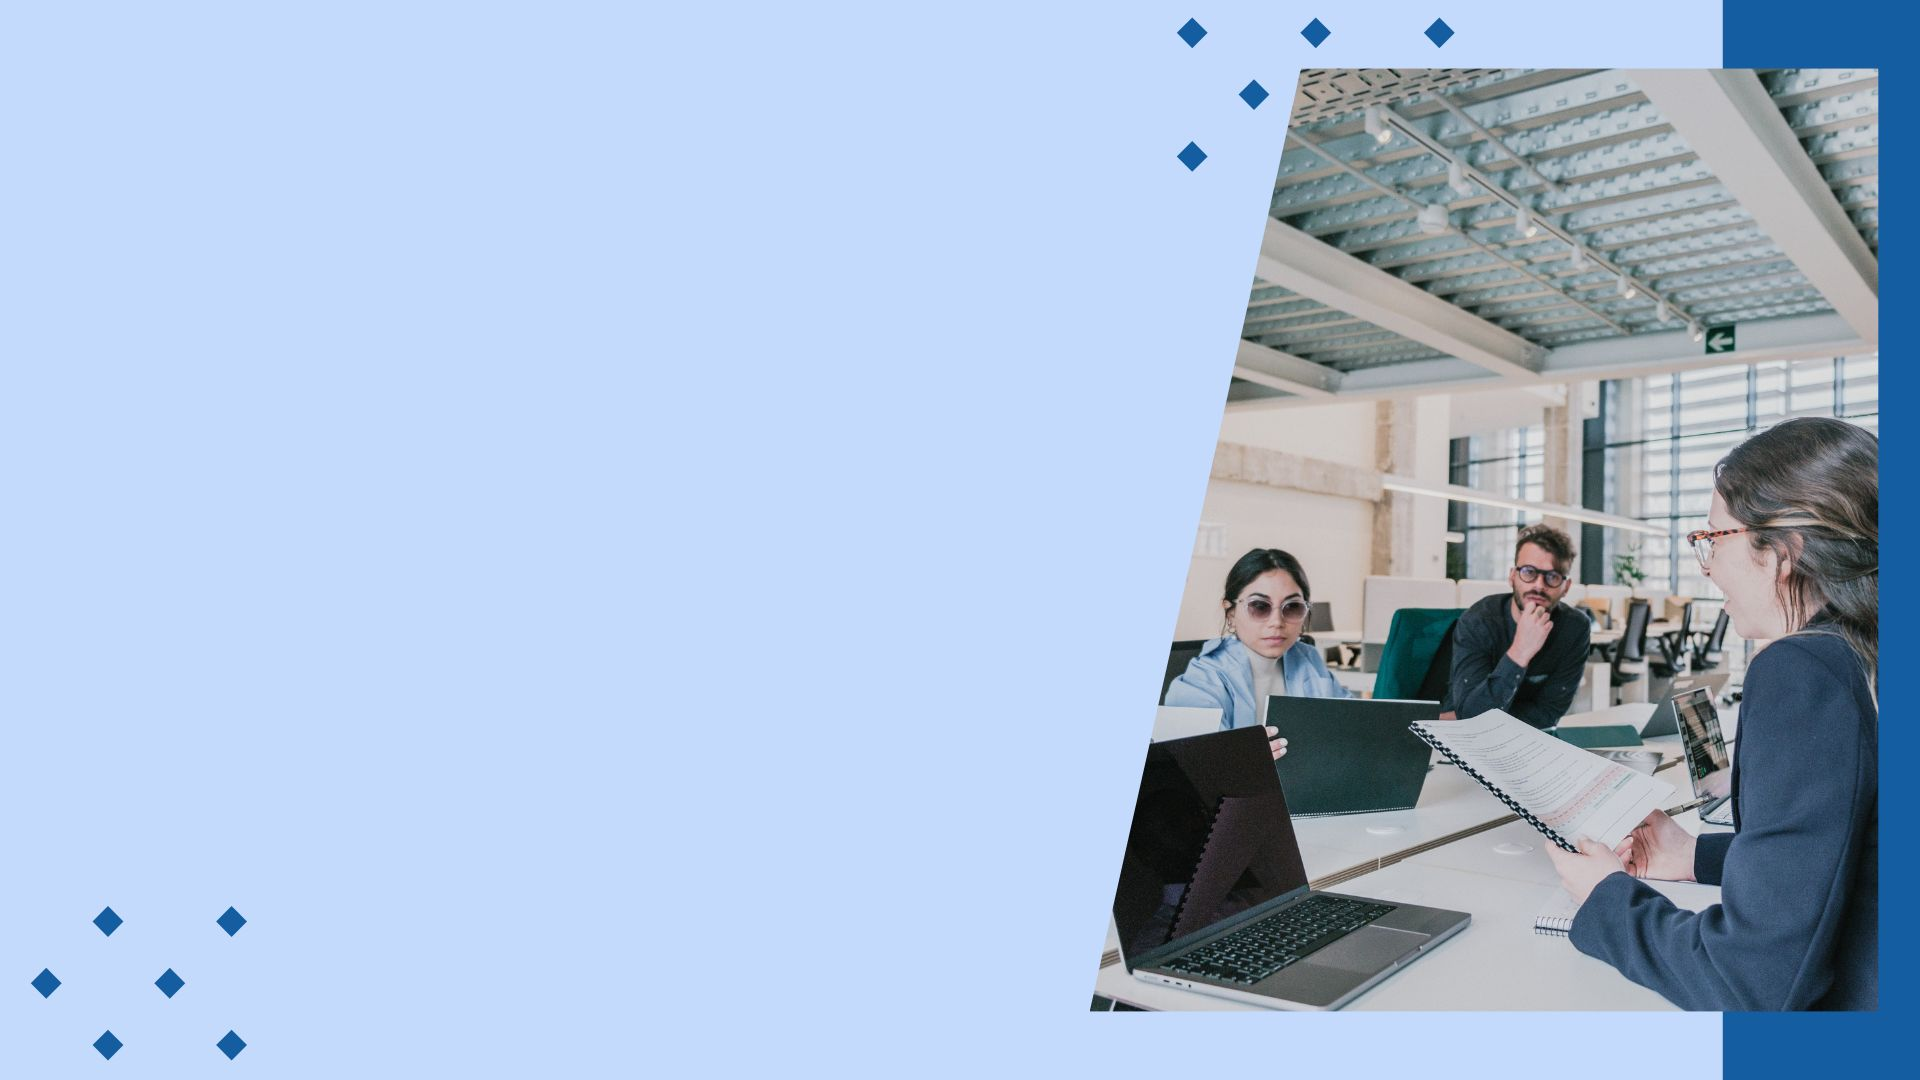
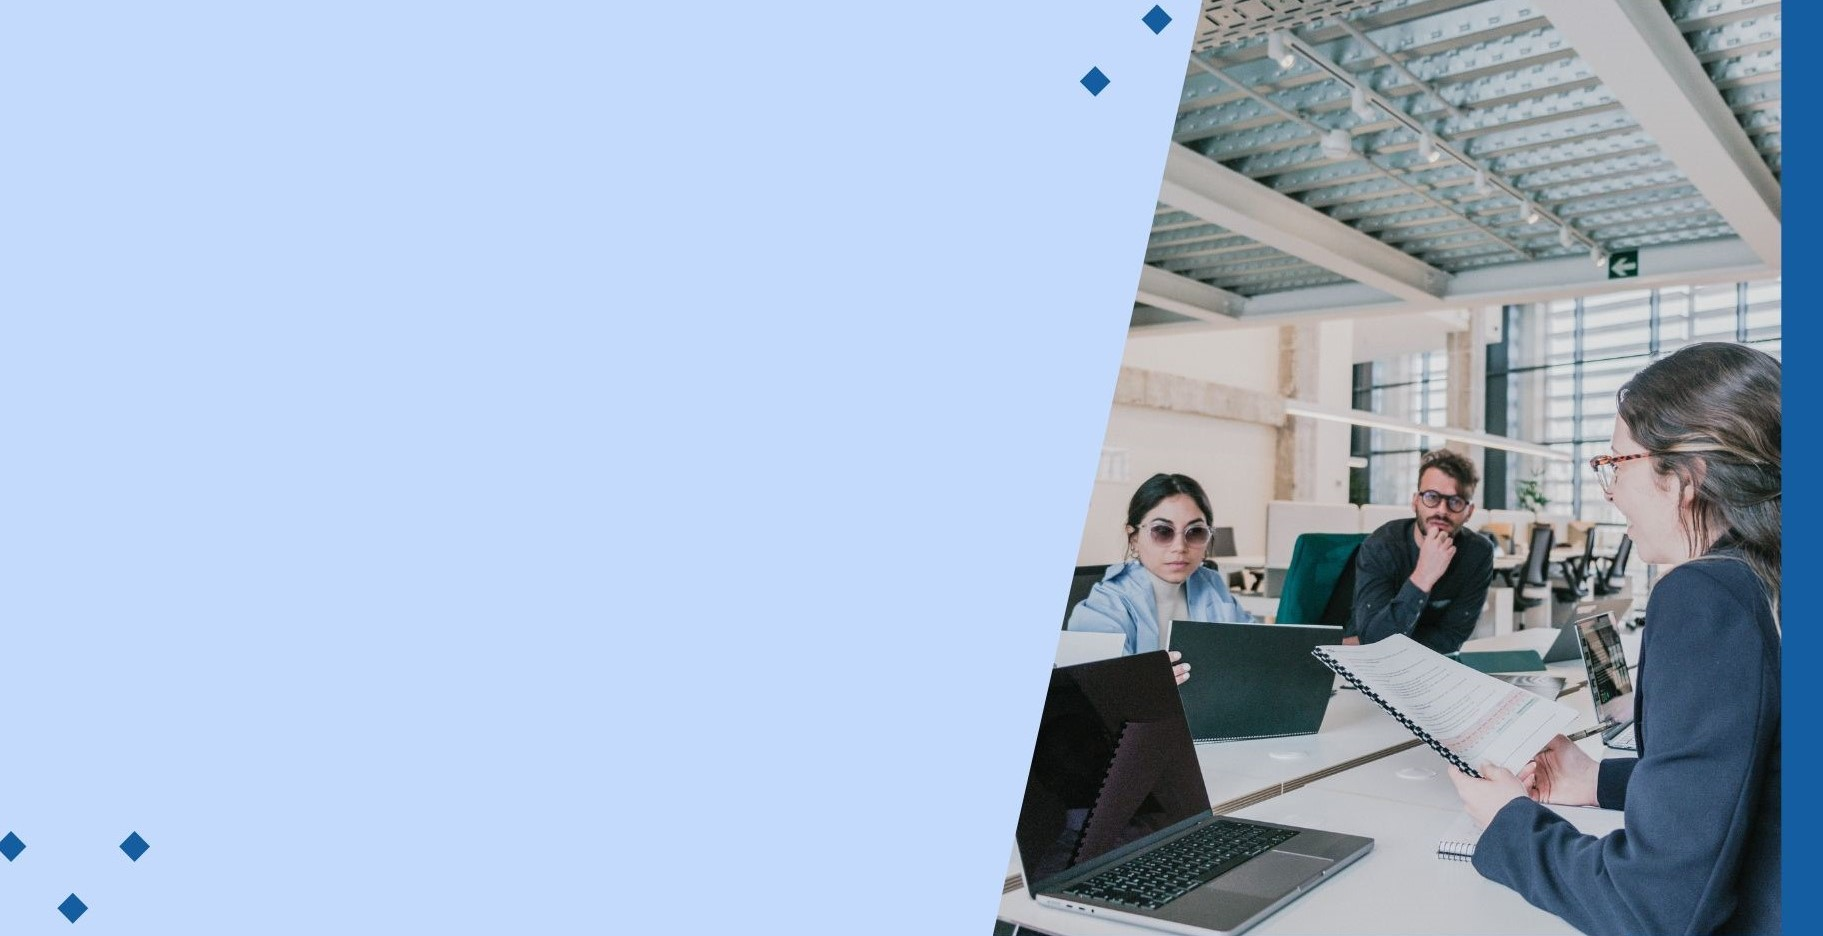
Initial version of pfe generated by generator-jhipster@8.1.0

diff --git a/src/main/webapp/app/page/page.component.html b/src/main/webapp/app/page/page.component.html
@@ -15,6 +15,7 @@
       font-size: 10px;
       font-family: 'Montserrat', sans-serif;
       scroll-behavior: smooth;
+
     }
     a {
       text-decoration: none;
@@ -25,6 +26,7 @@
       display: flex;
       align-items: center;
       justify-content: center;
+      flex-grow: 1;
     }
 
     img {
@@ -75,20 +77,27 @@
       color: white;
     }
     .brand h1 span {
-      color: #145adc;
+    color: #145adc;
     }
     #hero {
-      background-image: url('/content/images/Blue Dark Professional Geometric Business Project Presentation .jpg');
+      background: url('/content/images/Blue and Green Modern Professional Company Profile Presentation (1).jpg') center top no-repeat;
       background-size: cover;
-      background-position: center top;
       position: relative;
       z-index: 1;
+      width: 100vw;
+      padding: 100px 20px;
     }
+
     #hero .hero {
-      max-width: 1200px;
+      max-width: 20000000px;
       margin: 0 auto;
       padding: 0 50px;
       justify-content: flex-start;
+    }
+
+    #about {
+      width: 100vw;
+      padding: 100px 20px;
     }
     #hero h1 {
       display: block;
@@ -235,23 +244,21 @@
 
   </style>
 </head>
-
 <body>
 
-<section id="hero">
+<section id="hero" *ngIf="!isLoggedIn()">
   <div class="hero container">
     <div>
       <h1>Gestion <span></span></h1>
       <h1>des <span></span></h1>
       <h1>RÉCLAMATIONS<span></span></h1>
-      <a routerLink="/" type="button" class="cta">LOGIN</a>
+      <a routerLink="/login" type="button" class="cta" >LOGIN</a>
     </div>
   </div>
 </section>
 
-
-<section id="about">
-  <div class="about container">
+<section id="about" >
+  <div class="about container" >
     <div class="col-left image-container">
       <div class="about-img">
         <img src="../../content/images/images.png" height="194" width="259" />
@@ -267,5 +274,4 @@
 </section>
 
 </body>
-
 </html>

diff --git a/src/main/webapp/app/layouts/main/main.component.ts b/src/main/webapp/app/layouts/main/main.component.ts
@@ -7,13 +7,14 @@ import { AccountService } from 'app/core/auth/account.service';
 import { AppPageTitleStrategy } from 'app/app-page-title-strategy';
 import PageRibbonComponent from '../profiles/page-ribbon.component';
 import {FooterComponent} from "../footer/footer.component";
+import {CommonModule} from "@angular/common";
 
 @Component({
   selector: 'reclamation-main',
   standalone: true,
   templateUrl: './main.component.html',
   providers: [AppPageTitleStrategy],
-  imports: [RouterOutlet, FooterComponent, PageRibbonComponent],
+  imports: [RouterOutlet, FooterComponent, PageRibbonComponent, CommonModule],
 })
 export default class MainComponent implements OnInit {
   private renderer: Renderer2;
@@ -29,7 +30,6 @@ export default class MainComponent implements OnInit {
   }
 
   ngOnInit(): void {
-    // try to log in automatically
     this.accountService.identity().subscribe();
 
     this.translateService.onLangChange.subscribe((langChangeEvent: LangChangeEvent) => {
@@ -37,5 +37,8 @@ export default class MainComponent implements OnInit {
       dayjs.locale(langChangeEvent.lang);
       this.renderer.setAttribute(document.querySelector('html'), 'lang', langChangeEvent.lang);
     });
+  }
+  isAuthenticated(): boolean {
+    return this.accountService.isAuthenticated();
   }
 }

diff --git a/src/main/webapp/app/login/login.component.html b/src/main/webapp/app/login/login.component.html
@@ -39,8 +39,10 @@
       border: 2px solid rgba(255,255,255,0.1);
       box-shadow: 0 0 40px rgba(8,7,16,0.6);
       padding: 50px 35px;
-      margin: 0 auto; /* Ajout */
+      margin: 0 auto; /* Centre le formulaire horizontalement */
+      transform: translateX(5cm); /* Décale le formulaire de 10cm vers la gauche */
     }
+
     .auth-form *{ /* Changement de cette ligne */
       font-family: 'Poppins',sans-serif;
       color: #000000;
@@ -99,6 +101,9 @@
   <div class="shape"></div>
   <div class="shape"></div>
 </div>
+
+<div style="height: 2cm;"></div> <!-- Ajouter cinq lignes vides avant le formulaire -->
+
 <form class="auth-form" role="form" (ngSubmit)="login()" [formGroup]="loginForm">
   <img src="/content/images/login.png" alt="Authentification" data-cy="loginImage" class="small-image" /> <!-- Ajout de la classe small-image pour l'image -->
   <h1>
@@ -129,5 +134,8 @@
     <a class="alert-link" routerLink="/account/register">Créer un compte</a>
   </div>
 </form>
+
+<div style="height: 2cm;"></div> <!-- Ajouter cinq lignes vides après le formulaire -->
+
 </body>
 </html>

diff --git a/src/main/webapp/app/entities/correction/list/reclamation.component.html b/src/main/webapp/app/entities/correction/list/reclamation.component.html
@@ -311,10 +311,10 @@
               <fa-icon icon="eye"></fa-icon>
               <span class="d-none d-md-inline" >Voir</span>
             </a>
-            <a [routerLink]="['/reclamation', reclamation.id, 'edit']" class="btn btn-primary btn-sm" data-cy="entityEditButton">
+            <!--<a [routerLink]="['/reclamation', reclamation.id, 'edit']" class="btn btn-primary btn-sm" data-cy="entityEditButton">
               <fa-icon icon="pencil-alt"></fa-icon>
               <span class="d-none d-md-inline" >Editer</span>
-            </a>
+            </a>-->
             <button type="submit" (click)="delete(reclamation)" class="btn btn-danger btn-sm" data-cy="entityDeleteButton">
               <fa-icon icon="times"></fa-icon>
               <span class="d-none d-md-inline">Supprimer</span>

diff --git a/src/main/webapp/app/page/page.component.ts b/src/main/webapp/app/page/page.component.ts
@@ -1,6 +1,9 @@
-import { Component } from '@angular/core';
-import {RouterModule} from "@angular/router";
+import {Component, Renderer2, RendererFactory2} from '@angular/core';
+import {Router, RouterModule} from "@angular/router";
 import {NgIf} from "@angular/common";
+import {AppPageTitleStrategy} from "../app-page-title-strategy";
+import {AccountService} from "../core/auth/account.service";
+import {TranslateService} from "@ngx-translate/core";
 
 @Component({
   selector: 'reclamation-page',
@@ -11,5 +14,12 @@ import {NgIf} from "@angular/common";
 })
 export class PageComponent {
   isAuthenticated: boolean = false;
+  constructor(
+    public accountService: AccountService,
 
+
+  ){}
+  isLoggedIn(): boolean {
+    return this.accountService.isAuthenticated();
+  }
 }

diff --git a/src/main/webapp/app/layouts/navbar/navbar.component.html b/src/main/webapp/app/layouts/navbar/navbar.component.html
@@ -1,6 +1,6 @@
 <nav data-cy="navbar" class="navbar navbar-light navbar-expand-md" style=" background-image: linear-gradient(80deg , #c3dafc, #f5f5f5,#c3dafc); padding-top: 5px; padding-bottom: 5px">
 <div class="container-fluid">
-    <a class="navbar-brand logo" routerLink="/page" (click)="collapseNavbar()">
+    <a class="navbar-brand logo" routerLink="" (click)="collapseNavbar()">
       <span class="logo-img" style="width: 70px; height: 70px"></span>
       <span class="navbar-title" style="font-family: 'Montserrat', sans-serif; font-weight: 800; font-size: 14px; color: #333333"
         >GPRO consulting</span

diff --git a/src/main/webapp/app/layouts/navbar/navbar.component.ts b/src/main/webapp/app/layouts/navbar/navbar.component.ts
@@ -66,13 +66,13 @@ export default class NavbarComponent implements OnInit {
   }
 
   login(): void {
-    this.router.navigate(['/']);
+    this.router.navigate(['/login']);
   }
 
   logout(): void {
     this.collapseNavbar();
     this.loginService.logout();
-    this.router.navigate(['/page']);
+    this.router.navigate(['']);
   }
 
   toggleNavbar(): void {

diff --git a/src/main/webapp/app/app.routes.ts b/src/main/webapp/app/app.routes.ts
@@ -30,7 +30,7 @@ const routes: Routes = [
     outlet: 'footer',
   },
   {
-    path: 'page',
+    path: '',
     component: PageComponent,
 
   },
@@ -47,7 +47,7 @@ const routes: Routes = [
     loadChildren: () => import('./account/account.route'),
   },
   {
-    path: '',
+    path: 'login',
     component: LoginComponent,
     title: 'login.title',
   },

diff --git a/src/main/webapp/app/layouts/main/main.component.html b/src/main/webapp/app/layouts/main/main.component.html
@@ -6,11 +6,12 @@
   </div>
   <div class="row">
 
-    <div class="col-md-2">
+    <div class="col-md-2" *ngIf="isAuthenticated()">
       @if (accountService.isAuthenticated()) {
       <router-outlet name="sidebar"></router-outlet>
       }
     </div>
+
     <div class="col-md-10">
       <div class="card jh-card">
         <router-outlet></router-outlet>

diff --git a/src/main/webapp/app/layouts/sidebar/sidebar.component.ts b/src/main/webapp/app/layouts/sidebar/sidebar.component.ts
@@ -28,6 +28,6 @@ export class SidebarComponent {
   }
   logout(): void {
     this.loginService.logout();
-    this.router.navigate(['/page']);
+    this.router.navigate(['']);
   }
 }
